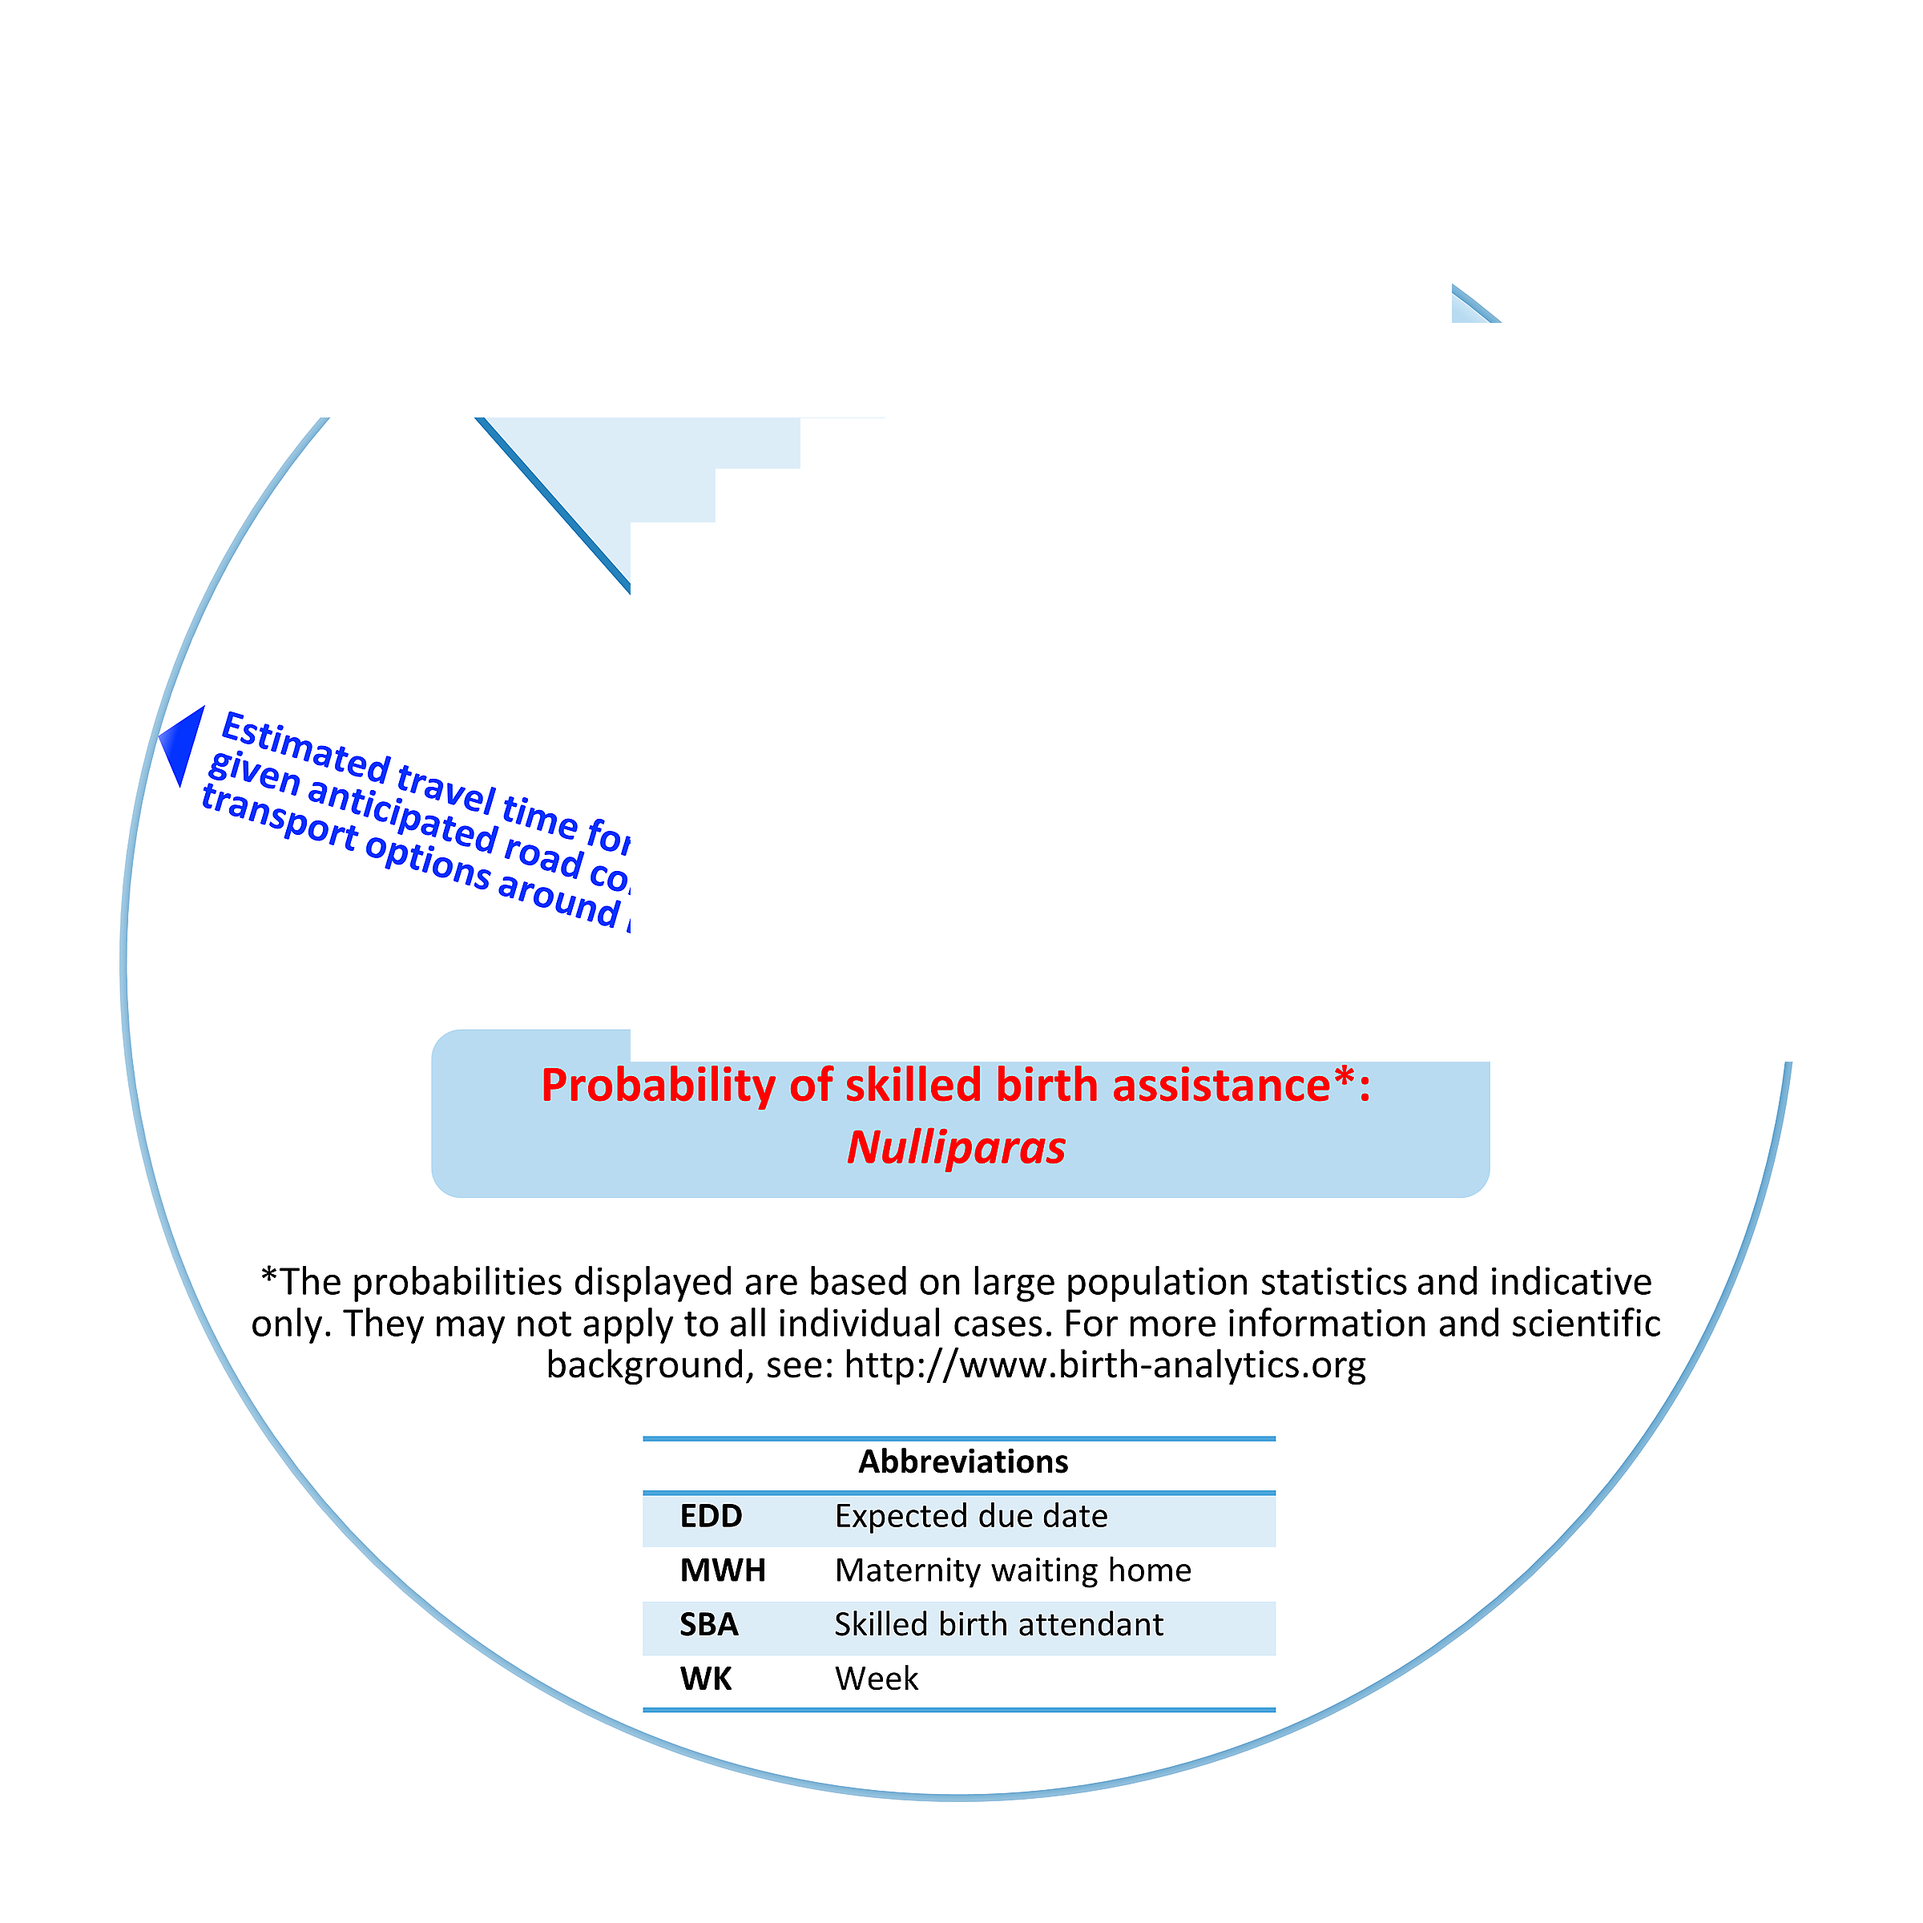
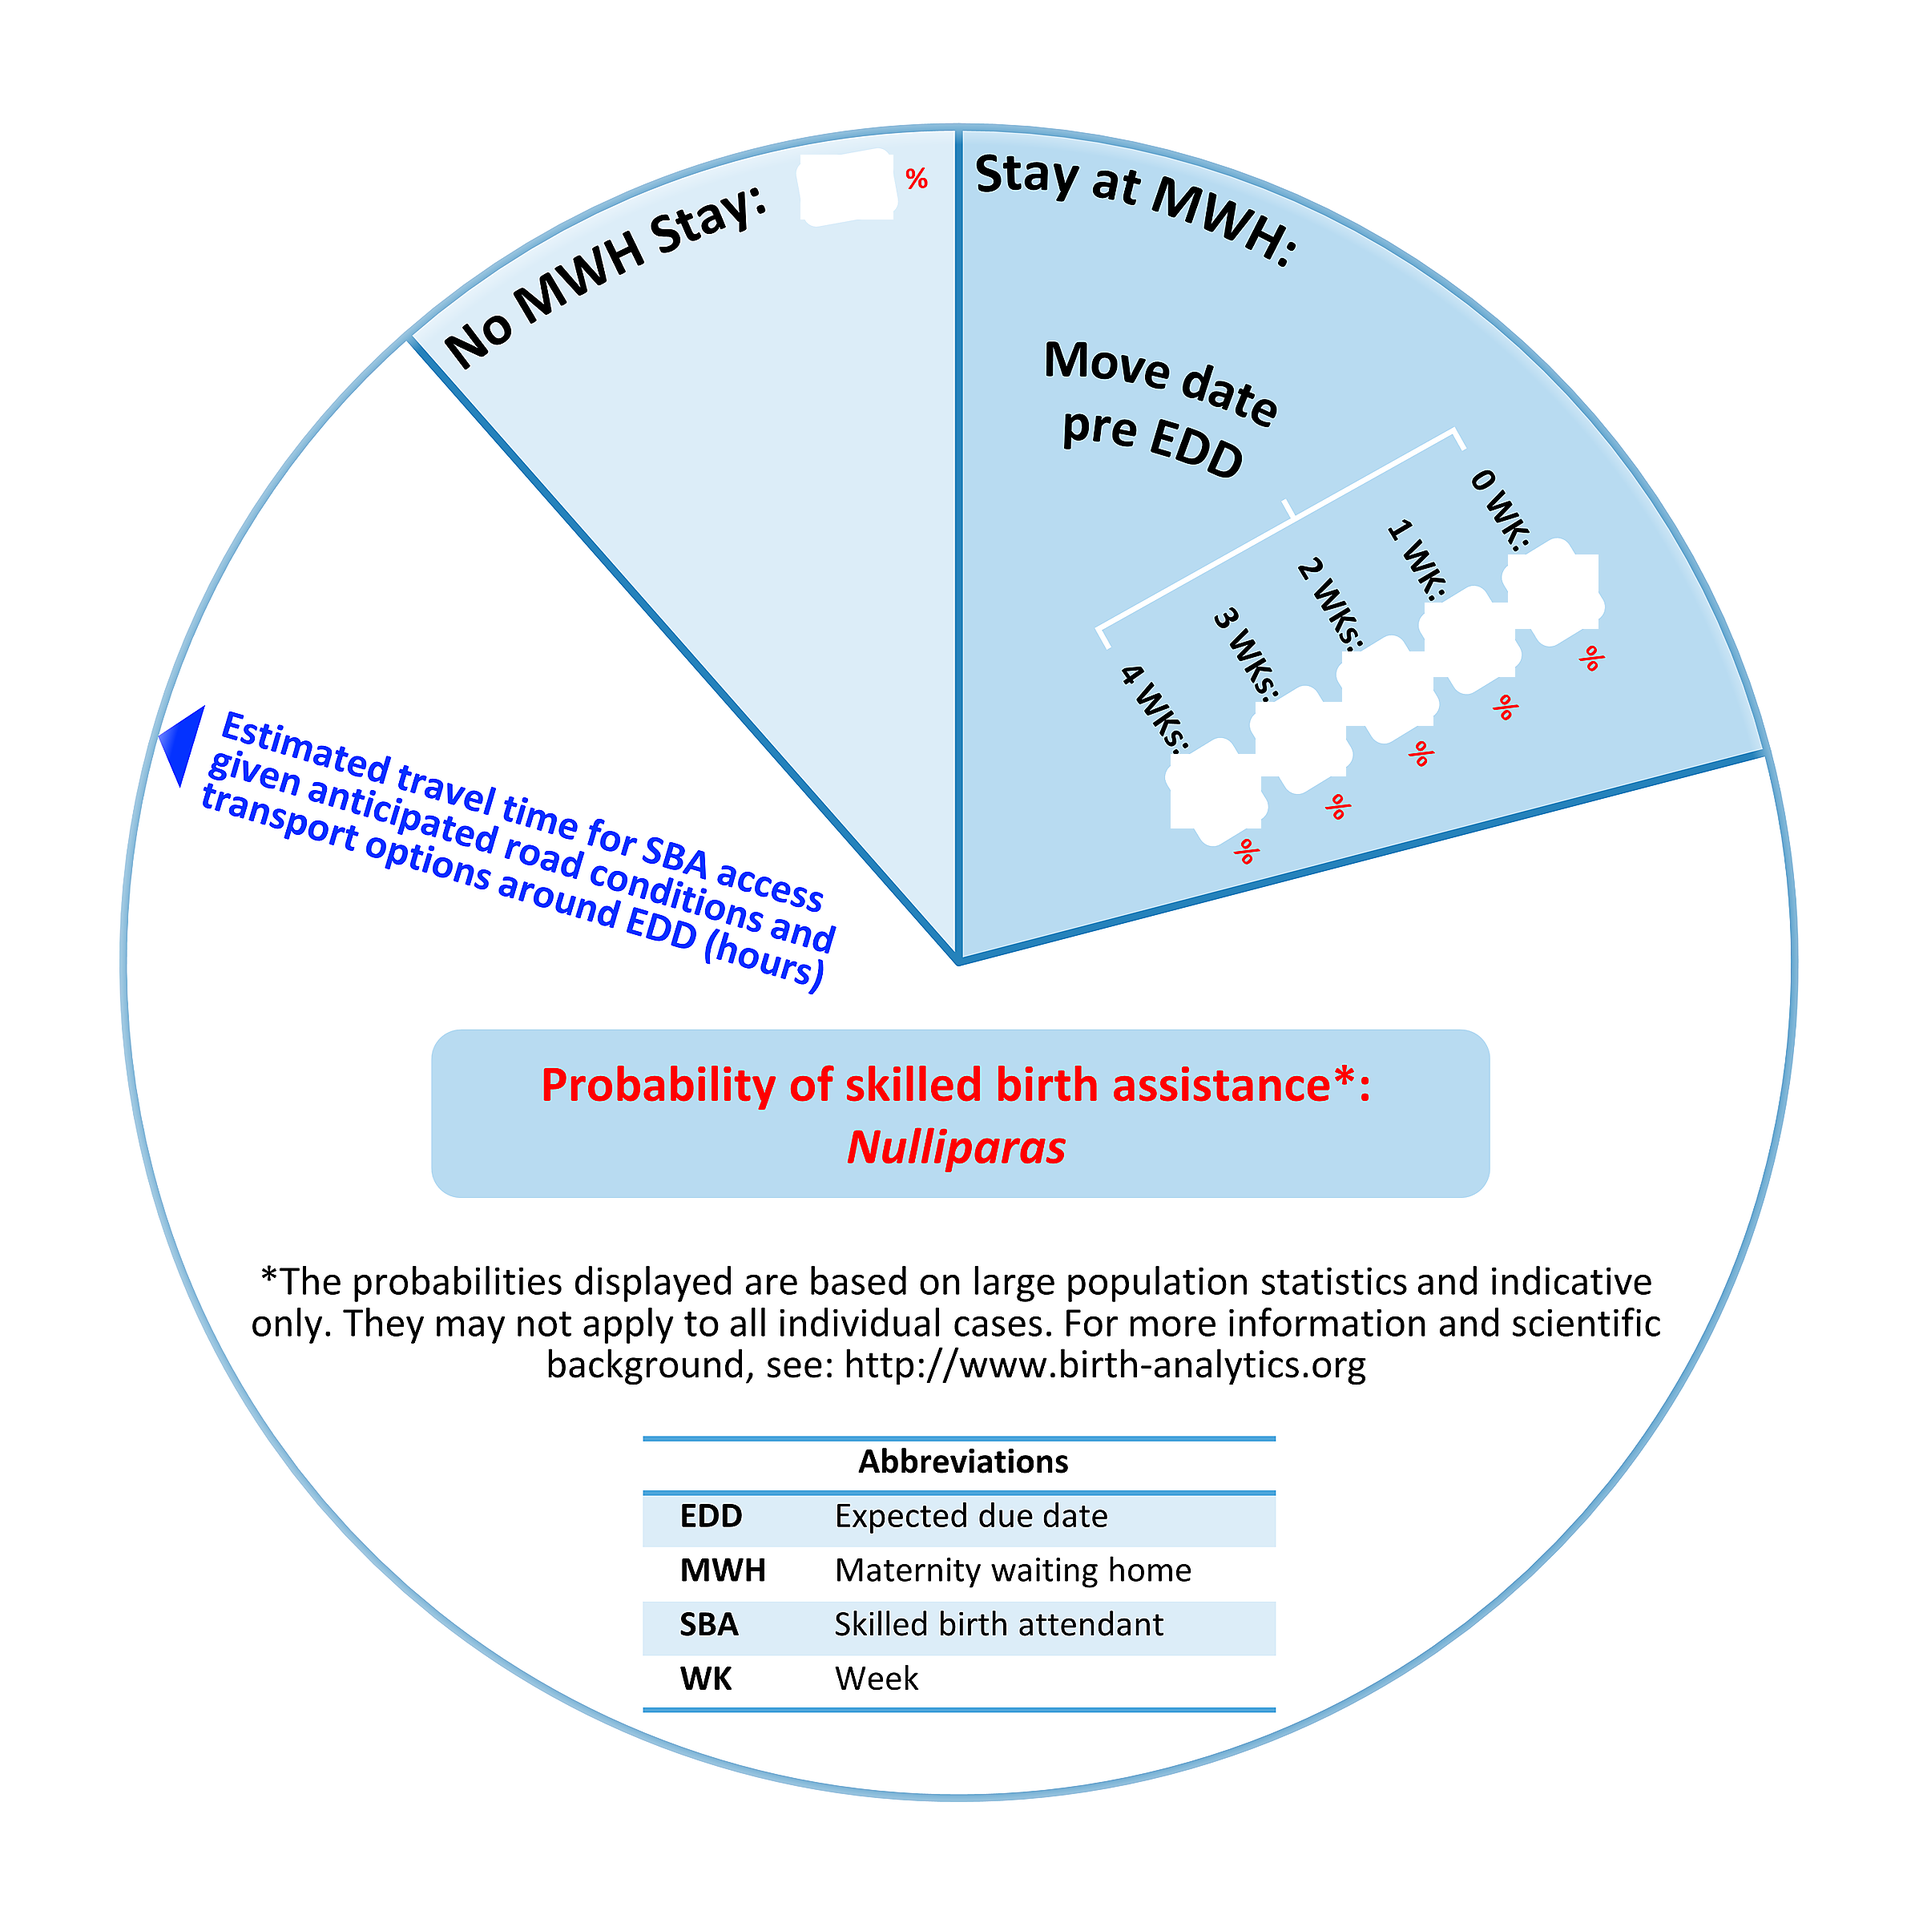
Fix SBA wheel Layer 1: correct hole coordinates
The 6 transparent holes were using inches (0.242, 0.164...) as slide
fractions, making them 13x too wide and exposing most of Layer 2.
Corrected to actual fractions from python-pptx inspection:
  RR15: w=0.0181, h=0.0219 (was 0.242, 0.164)
  RR19-32: w=0.0176, h=0.0254 (was 0.234, 0.191)
Inner disc now has ~61K transparent pixels (6 small holes) vs 1.4M before.

Changed region(s): [[0.1875, 0.0625, 0.9375, 0.5312], [0.3125, 0.4375, 0.7812, 0.5625], [0.1562, 0.1875, 0.1875, 0.2188]]

diff --git a/scripts/generate_sba_images_hires.py b/scripts/generate_sba_images_hires.py
@@ -40,16 +40,21 @@ print(f"Crop box: SX={SX}, SY={SY}, SW={SW}, SH={SH}")
 print(f"Output size: {OUT_W}x{OUT_H}")
 
 # ── Hole positions (from PPTX, same for nuli and multi) ──────────────────────
-# (cx_frac, cy_frac, w_frac, h_frac) in PPTX slide fractions (before oval distortion)
-# cx_frac and cy_frac are the CENTER of the shape in fraction of slide dimensions.
-# These were derived from the PPTX XML in the previous session.
+# (cx_frac, cy_frac, w_frac, h_frac) — ALL values are fractions of slide dimensions
+# Derived from python-pptx inspection of tool_design_updated.pptx slide 2:
+#   RR15: cx=0.4560 cy=0.1874 w=0.0181 h=0.0219  ("No MWH Stay" hole)
+#   RR19: cx=0.5300 cy=0.4029 w=0.0176 h=0.0254  (innermost stay row)
+#   RR29: cx=0.5470 cy=0.3843 w=0.0176 h=0.0254
+#   RR30: cx=0.5644 cy=0.3663 w=0.0176 h=0.0254
+#   RR31: cx=0.5809 cy=0.3487 w=0.0176 h=0.0254
+#   RR32: cx=0.5976 cy=0.3317 w=0.0176 h=0.0254  (outermost stay row)
 HOLE_SHAPES_FRAC = [
-    (0.456, 0.187, 0.242, 0.164),
-    (0.530, 0.403, 0.234, 0.191),
-    (0.547, 0.384, 0.234, 0.191),
-    (0.564, 0.366, 0.234, 0.191),
-    (0.581, 0.349, 0.234, 0.191),
-    (0.598, 0.332, 0.234, 0.191),
+    (0.4560, 0.1874, 0.0181, 0.0219),
+    (0.5300, 0.4029, 0.0176, 0.0254),
+    (0.5470, 0.3843, 0.0176, 0.0254),
+    (0.5644, 0.3663, 0.0176, 0.0254),
+    (0.5809, 0.3487, 0.0176, 0.0254),
+    (0.5976, 0.3317, 0.0176, 0.0254),
 ]
 
 def frac_to_px(cx_frac, cy_frac, w_frac, h_frac):
